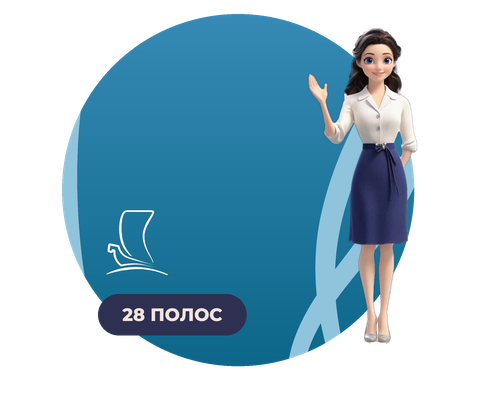
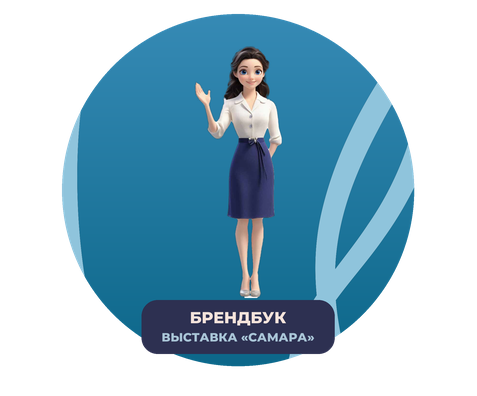
Обложка кейса «Самара»: маскот по центру и говорящая плашка
На витрине карточка идёт без подписи, и круг-постер со знаком региона не
объяснял, что за кейс. Теперь маскот стоит строго по центру круга, а вместо
знака — плашка «БРЕНДБУК / ВЫСТАВКА „САМАРА“»; знак остался на hover-квадрате
и на самой странице. Ширина плашки проверяется по хорде круга на её высоте,
чтобы углы не вылезали за границу.

Changed region(s): [[0.2055, 0.1212, 0.7044, 0.9091], [0.6457, 0.0606, 0.8805, 0.8788], [0.2055, 0.5152, 0.3522, 0.697]]

diff --git a/scripts/gen-samara-brand-covers.py b/scripts/gen-samara-brand-covers.py
@@ -2,14 +2,16 @@
 """Обложки карточки кейса «Фирменный стиль выставки „Самара“» (477×396),
 механика дизайн-системы v2.2:
 - cover-main: КРУГ-постер в фирменном синем 368AB5, внутри — кривая паруса
-  светлым тоном (тот самый фоновый паттерн из гайда), маскот «Ладушка» стоит
-  в круге и головой выходит за его границу, внизу метрика «28 ПОЛОС»;
+  светлым тоном (тот самый фоновый паттерн из гайда), маскот «Ладушка» строго
+  по центру и плашка «БРЕНДБУК / ВЫСТАВКА „САМАРА“»: в каталоге карточка идёт
+  без подписи, поэтому кейс объясняет сам постер, а не знак региона;
 - cover-hover: КВАДРАТ того же синего — фоновое эхо «46» (слов семантического
   ядра), знак-парус, заголовок и «СМОТРЕТЬ КЕЙС →».
 Знак и парус не рисуем руками: берём кривые из scripts/a2/samara_vectors.json,
 то есть тот же вектор, что и на самой странице кейса.
 Кладёт в mirror/images/lib/custom-samara-brand/ (webp — scripts/gen-webp.sh)."""
 import json
+import math
 import os
 
 import fitz
@@ -85,6 +87,11 @@ def disc():
     return im
 
 
+MAIN_PLATE = ('БРЕНДБУК', 'ВЫСТАВКА «САМАРА»')
+PLATE_TOP = 300      # верх плашки в координатах карточки
+FIG_H, FIG_BOTTOM = 252, 298   # рост фигуры и уровень, на котором она стоит
+
+
 def cover_main():
     S = SS
     img = Image.new('RGBA', (W * S, H * S), (0, 0, 0, 0))
@@ -97,26 +104,34 @@ def cover_main():
     d = ImageDraw.Draw(img)
     d.ellipse([cx - r, cy - r, cx + r, cy + r], outline=WHITE + (52,), width=2 * S)
 
-    # маскот стоит в круге и выходит за его верхнюю границу — по правилу карточек
-    # v2.2 объёмные элементы разрешено выпускать за круг
+    # маскот строго по центру круга: карточка в каталоге идёт без подписи,
+    # поэтому объяснять кейс должен сам постер
     m = Image.open(MASCOT).convert('RGBA')
-    mh = int(316 * S)
+    mh = int(FIG_H * S)
     m = m.resize((max(1, round(m.width * mh / m.height)), mh), Image.LANCZOS)
-    # фигура стоит в круге и выходит за его правую границу, оставаясь в карточке
-    img.alpha_composite(m, (cx - m.width // 2 + int(124 * S), cy + r - mh - int(24 * S)))
+    img.alpha_composite(m, (cx - m.width // 2, int(FIG_BOTTOM * S) - mh))
 
-    # знак и метрика — в нижней половине: сверху карточку перекрывает чип категории
-    lg = vector('mark', int(62 * S))
-    img.paste(lg, (cx - r + int(46 * S), cy + int(20 * S)), lg)
-    ptxt = '28 ПОЛОС'
-    pf = font(int(18 * S), 'ExtraBold')
-    tb = d.textbbox((0, 0), ptxt, font=pf)
-    tw, th = tb[2] - tb[0], tb[3] - tb[1]
-    px_, py_ = int(24 * S), int(14 * S)
-    pw, ph = tw + px_ * 2, th + py_ * 2
-    plx, ply = cx - r + int(38 * S), cy + r - int(74 * S)
-    d.rounded_rectangle([plx, ply, plx + pw, ply + ph], radius=ph // 2, fill=INK + (255,))
-    d.text((plx + px_ - tb[0], ply + py_ - tb[1]), ptxt, font=pf, fill=SAND + (255,))
+    # плашка вместо знака: знак региона узнаётся не всеми, а «что это за кейс»
+    # с карточки должно читаться сразу. Знак остаётся на hover-квадрате.
+    rows = []
+    for text, size, color in ((MAIN_PLATE[0], 16, SAND), (MAIN_PLATE[1], 12, (168, 196, 214))):
+        f = font(int(size * S), 'ExtraBold')
+        tb = d.textbbox((0, 0), text, font=f)
+        rows.append((text, f, tb, tb[2] - tb[0], tb[3] - tb[1], color))
+    padx, pady, gap = int(20 * S), int(12 * S), int(7 * S)
+    pw = max(x[3] for x in rows) + padx * 2
+    ph = sum(x[4] for x in rows) + gap + pady * 2
+    plx, ply = cx - pw // 2, int(PLATE_TOP * S)
+    # плашка обязана вписаться в хорду круга на своей высоте, иначе углы вылезут
+    half = math.sqrt(max(0.0, (R * S) ** 2 - ((ply + ph / 2) - cy) ** 2))
+    if pw / 2 > half - 12 * S:
+        raise SystemExit('✗ плашка шире круга на этой высоте: %.0f px против %.0f px'
+                         % (pw / S, 2 * (half - 12 * S) / S))
+    d.rounded_rectangle([plx, ply, plx + pw, ply + ph], radius=int(16 * S), fill=INK + (255,))
+    y = ply + pady
+    for _t, f, tb, tw, th, color in rows:
+        d.text((cx - tw // 2 - tb[0], y - tb[1]), _t, font=f, fill=color + (255,))
+        y += th + gap
     return img.resize((W, H), Image.LANCZOS)
 
 
